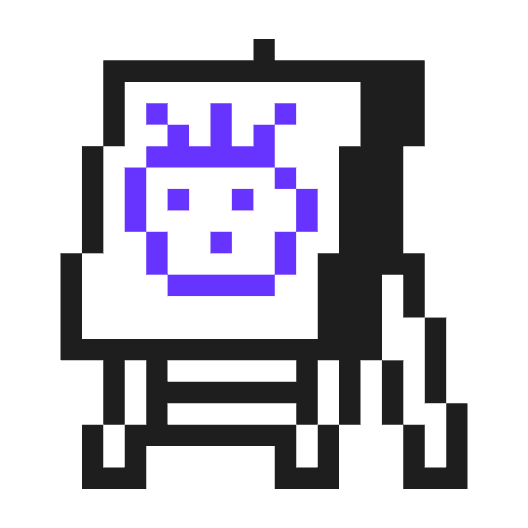
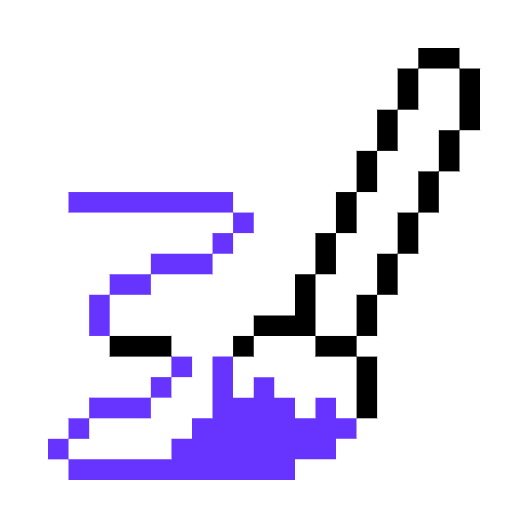
Align analytics with AI Experiment IA and refresh index monogram assets.
Renames Ideas gallery events, fixes detail vs live-demo tracking, adds gallery media_play events, and updates Craft and Design Review slider icons.

diff --git a/src/lib/analytics.ts b/src/lib/analytics.ts
@@ -38,9 +38,9 @@ export function trackDesignReviewView(slug: string): void {
   track("design_review_view", { slug });
 }
 
-/** Ideas gallery page load (`/ideas`). */
-export function trackIdeasView(): void {
-  track("ideas_view");
+/** AI Experiment gallery page load (`/ideas`). */
+export function trackAiExperimentView(): void {
+  track("ai_experiment_view");
 }
 
 /** Craft gallery page load (`/craft`). */
@@ -58,30 +58,18 @@ export function trackArchiveView(): void {
   track("archive_view");
 }
 
-export type IdeasExperimentViewSource = "click";
-
-/** AI experiment opened from the Ideas gallery — external demo click. */
-export function trackIdeasExperimentView(properties: {
-  slug: string;
-  source: IdeasExperimentViewSource;
-  external?: boolean;
-}): void {
-  track("ideas_experiment_view", {
-    slug: properties.slug,
-    source: properties.source,
-    ...(properties.external !== undefined
-      ? { external: properties.external ? "1" : "0" }
-      : {}),
-  });
+/** AI Experiment detail modal opened from the gallery grid. */
+export function trackAiExperimentDetailView(slug: string): void {
+  track("ai_experiment_detail_view", { slug });
 }
 
-/** Ideas gallery card CTA click — Try Now on `/ideas`. */
-export function trackIdeasItemClick(properties: {
+/** AI Experiment gallery interaction — detail modal or live demo CTA. */
+export function trackAiExperimentItemClick(properties: {
   slug: string;
-  cta: string;
+  cta: "card" | "live-demo" | string;
   url: string;
 }): void {
-  track("ideas_item_click", properties);
+  track("ai_experiment_item_click", properties);
 }
 
 export function trackCraftItemClick(properties: {
@@ -92,7 +80,7 @@ export function trackCraftItemClick(properties: {
   track("craft_item_click", properties);
 }
 
-/** Craft gallery filter tab change. */
+/** Craft gallery filter tab change — legacy bento gallery only. */
 export function trackCraftFilter(filter: string): void {
   track("craft_filter", { filter });
 }
@@ -141,8 +129,13 @@ export function trackIndexFrameNavigate(properties: {
 export function trackExternalDemoOpen(properties: {
   slug: string;
   url: string;
+  surface?: "ai-experiment" | "craft";
 }): void {
-  track("external_demo_open", properties);
+  track("external_demo_open", {
+    slug: properties.slug,
+    url: properties.url,
+    ...(properties.surface ? { surface: properties.surface } : {}),
+  });
 }
 
 export function trackCaseStudyRevealImpression(properties: {
@@ -156,7 +149,7 @@ export function trackCaseStudyRevealed(slug: string): void {
   track("case_study_revealed", { slug });
 }
 
-export type MediaPlaySurface = "case-study" | "craft" | "ideas";
+export type MediaPlaySurface = "case-study" | "craft" | "ai-experiment";
 
 export type AiChatOpenSource =
   | "fab"

diff --git a/src/components/experiments/experiments-bento-card.tsx b/src/components/experiments/experiments-bento-card.tsx
@@ -17,10 +17,10 @@ import { getExperimentMedia } from "@/lib/experiment-media";
 import { EXPERIMENTS_CARD } from "@/lib/experiments-bento";
 import { ROUTES } from "@/lib/constants";
 import {
+  trackAiExperimentDetailView,
+  trackAiExperimentItemClick,
   trackCraftItemClick,
   trackExternalDemoOpen,
-  trackIdeasExperimentView,
-  trackIdeasItemClick,
 } from "@/lib/analytics";
 import { ExperimentsPreviewMedia } from "@/components/experiments/experiments-preview-media";
 import { FOCUS_RING, externalDemoLinkLabel, externalLinkLabel } from "@/lib/a11y";
@@ -68,24 +68,21 @@ export function ExperimentsBentoCard({
 
   function handleCraftItemClick(): void {
     if (item.external && item.href) {
-      trackExternalDemoOpen({ slug: item.slug, url: item.href });
+      trackExternalDemoOpen({
+        slug: item.slug,
+        url: item.href,
+        surface: "ai-experiment",
+      });
       if (isIdeasGallery) {
-        trackIdeasItemClick({
+        trackAiExperimentItemClick({
           slug: item.slug,
-          cta: resolvedCtaLabel ?? "Try Now",
+          cta: resolvedCtaLabel ?? "live-demo",
           url: item.href,
         });
       } else {
         trackCraftItemClick({
           slug: item.slug,
           category: resolvedCategory,
-          external: true,
-        });
-      }
-      if (resolvedCategory === "ai-experiment" && isIdeasGallery) {
-        trackIdeasExperimentView({
-          slug: item.slug,
-          source: "click",
           external: true,
         });
       }
@@ -101,11 +98,7 @@ export function ExperimentsBentoCard({
     }
 
     if (resolvedCategory === "ai-experiment" && isIdeasGallery) {
-      trackIdeasExperimentView({
-        slug: item.slug,
-        source: "click",
-        external: false,
-      });
+      trackAiExperimentDetailView(item.slug);
     }
   }
 

diff --git a/src/components/ideas/ideas-detail-modal.tsx b/src/components/ideas/ideas-detail-modal.tsx
@@ -10,9 +10,9 @@ import {
   IDEAS_DETAIL_AUTHOR,
 } from "@/lib/ideas-page-data";
 import {
+  trackAiExperimentDetailView,
+  trackAiExperimentItemClick,
   trackExternalDemoOpen,
-  trackIdeasExperimentView,
-  trackIdeasItemClick,
 } from "@/lib/analytics";
 import { IdeasDetailMedia } from "@/components/ideas/ideas-detail-media";
 import { AiChatAvatar } from "@/components/ai-chat/ai-chat-avatar";
@@ -54,16 +54,7 @@ export function IdeasDetailModal({ item, onClose }: IdeasDetailModalProps) {
   useEffect(() => {
     if (!open || !item) return;
 
-    trackIdeasItemClick({
-      slug: item.slug,
-      cta: "card",
-      url: item.href ?? `/ideas#${item.slug}`,
-    });
-    trackIdeasExperimentView({
-      slug: item.slug,
-      source: "click",
-      external: false,
-    });
+    trackAiExperimentDetailView(item.slug);
   }, [open, item]);
 
   if (!mounted) return null;
@@ -144,8 +135,12 @@ export function IdeasDetailModal({ item, onClose }: IdeasDetailModalProps) {
                       className={`ideas-detail__chip ideas-detail__chip--link ${FOCUS_RING}`}
                       aria-label={externalLinkLabel(item.title)}
                       onClick={() => {
-                        trackExternalDemoOpen({ slug: item.slug, url: href });
-                        trackIdeasItemClick({
+                        trackExternalDemoOpen({
+                          slug: item.slug,
+                          url: href,
+                          surface: "ai-experiment",
+                        });
+                        trackAiExperimentItemClick({
                           slug: item.slug,
                           cta: "live-demo",
                           url: href,

diff --git a/src/components/ideas/ideas-card-preview.tsx b/src/components/ideas/ideas-card-preview.tsx
@@ -4,12 +4,14 @@ import { useCallback, useEffect, useRef, useState } from "react";
 import type { ExperimentMedia } from "@/lib/experiment-media";
 import { isRemoteCdnUrl } from "@/lib/asset-cdn";
 import { useMediaAutoplay } from "@/hooks/use-media-autoplay";
+import { useTrackMediaPlay } from "@/hooks/use-track-media-play";
 
 const PLAYBACK_ROOT_MARGIN = "50px";
 
 interface IdeasCardPreviewProps {
   media: ExperimentMedia;
   title: string;
+  slug: string;
 }
 
 function markImageReady(image: HTMLImageElement, onReady: () => void) {
@@ -25,7 +27,7 @@ function markVideoReady(video: HTMLVideoElement, onReady: () => void) {
 }
 
 /** Media fills a fixed preview frame (object-fit: cover). */
-export function IdeasCardPreview({ media, title }: IdeasCardPreviewProps) {
+export function IdeasCardPreview({ media, title, slug }: IdeasCardPreviewProps) {
   const containerRef = useRef<HTMLDivElement>(null);
   const imageRef = useRef<HTMLImageElement>(null);
   const videoRef = useRef<HTMLVideoElement>(null);
@@ -33,6 +35,7 @@ export function IdeasCardPreview({ media, title }: IdeasCardPreviewProps) {
   const [isIntersecting, setIsIntersecting] = useState(false);
   const [isMediaReady, setIsMediaReady] = useState(false);
   const autoplay = useMediaAutoplay();
+  const trackPlay = useTrackMediaPlay(slug);
 
   const markReady = useCallback(() => {
     setIsMediaReady(true);
@@ -71,11 +74,13 @@ export function IdeasCardPreview({ media, title }: IdeasCardPreviewProps) {
     if (!video || media.type !== "video") return;
 
     if (isIntersecting && autoplay) {
-      void video.play().catch(() => undefined);
+      void video.play().then(() => {
+        trackPlay(media.src);
+      }).catch(() => undefined);
     } else {
       video.pause();
     }
-  }, [isIntersecting, autoplay, media.type]);
+  }, [isIntersecting, autoplay, media.type, media.src, trackPlay]);
 
   useEffect(() => {
     const onVisibilityChange = () => {

diff --git a/src/components/craft/craft-card-preview.tsx b/src/components/craft/craft-card-preview.tsx
@@ -2,6 +2,7 @@
 
 import type { ExperimentMedia } from "@/lib/experiment-media";
 import { useMediaAutoplay } from "@/hooks/use-media-autoplay";
+import { useTrackMediaPlay } from "@/hooks/use-track-media-play";
 import Image from "next/image";
 import { useEffect, useRef, useState } from "react";
 
@@ -12,6 +13,7 @@ const CRAFT_IMAGE_SIZES = "(min-width: 640px) 50vw, 100vw";
 interface CraftCardPreviewProps {
   media: ExperimentMedia;
   title: string;
+  slug: string;
   priority?: boolean;
   onMeasure?: (width: number, height: number) => void;
 }
@@ -30,6 +32,7 @@ function reportMeasure(
 export function CraftCardPreview({
   media,
   title,
+  slug,
   priority = false,
   onMeasure,
 }: CraftCardPreviewProps) {
@@ -38,6 +41,7 @@ export function CraftCardPreview({
   const [shouldLoad, setShouldLoad] = useState(priority);
   const [isIntersecting, setIsIntersecting] = useState(priority);
   const autoplay = useMediaAutoplay();
+  const trackPlay = useTrackMediaPlay(slug);
 
   useEffect(() => {
     if (priority) return;
@@ -81,11 +85,13 @@ export function CraftCardPreview({
     if (!video || media.type !== "video" || !shouldLoad) return;
 
     if (isIntersecting && autoplay) {
-      void video.play().catch(() => undefined);
+      void video.play().then(() => {
+        trackPlay(media.src);
+      }).catch(() => undefined);
     } else {
       video.pause();
     }
-  }, [isIntersecting, autoplay, media.type, shouldLoad]);
+  }, [isIntersecting, autoplay, media.type, media.src, shouldLoad, trackPlay]);
 
   useEffect(() => {
     const onVisibilityChange = () => {

diff --git a/src/hooks/use-ideas-page-analytics.ts b/src/hooks/use-ideas-page-analytics.ts
@@ -1,8 +1,8 @@
 "use client";
 
 import { usePageViewOnce } from "@/hooks/use-page-view-analytics";
-import { trackIdeasView } from "@/lib/analytics";
+import { trackAiExperimentView } from "@/lib/analytics";
 
 export function useIdeasPageAnalytics(): void {
-  usePageViewOnce(trackIdeasView);
+  usePageViewOnce(trackAiExperimentView);
 }

diff --git a/src/components/ideas/ideas-card.tsx b/src/components/ideas/ideas-card.tsx
@@ -30,7 +30,7 @@ export function IdeasCard({ item, onSelect }: IdeasCardProps) {
         style={previewHeightStyle}
       >
         {media ? (
-          <IdeasCardPreview media={media} title={item.title} />
+          <IdeasCardPreview media={media} title={item.title} slug={item.slug} />
         ) : null}
       </div>
 

diff --git a/src/hooks/use-track-media-play.ts b/src/hooks/use-track-media-play.ts
@@ -21,7 +21,7 @@ function resolveMediaPlayContext(pathname: string): MediaPlayContext | null {
   }
 
   if (pathname === ROUTES.ideas) {
-    return { surface: "ideas" };
+    return { surface: "ai-experiment" };
   }
 
   if (pathname === ROUTES.craft || pathname.startsWith(`${ROUTES.craft}/`)) {

diff --git a/src/lib/constants.ts b/src/lib/constants.ts
@@ -32,7 +32,7 @@ export const FRAMES = [
     id: "ideas",
     type: "section" as const,
     variant: "slide" as const,
-    label: "Ideas",
+    label: "AI Experiment",
     monogramImage: "/assets/index/ideas-monogram.png",
     href: ROUTES.ideas,
   },

diff --git a/src/components/craft/craft-card.tsx b/src/components/craft/craft-card.tsx
@@ -33,6 +33,7 @@ export function CraftCard({ item, priority = false, onMediaMeasure }: CraftCardP
           <CraftCardPreview
             media={media}
             title={item.title}
+            slug={item.slug}
             priority={priority}
             onMeasure={(width, height) => {
               const widthOverHeight = width / height;